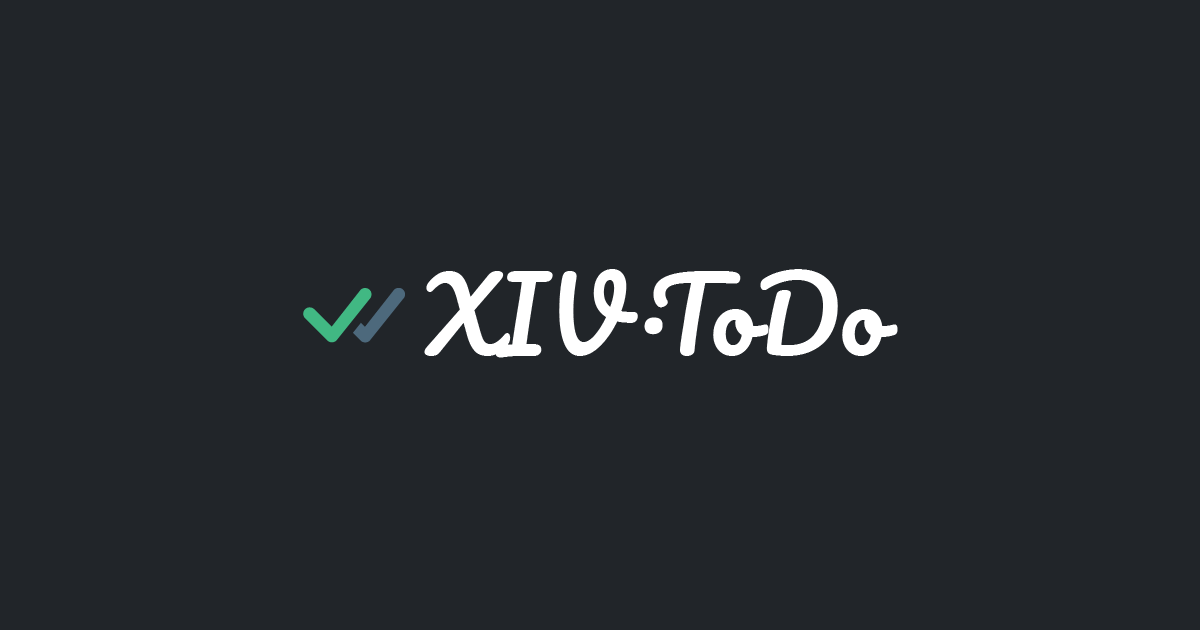
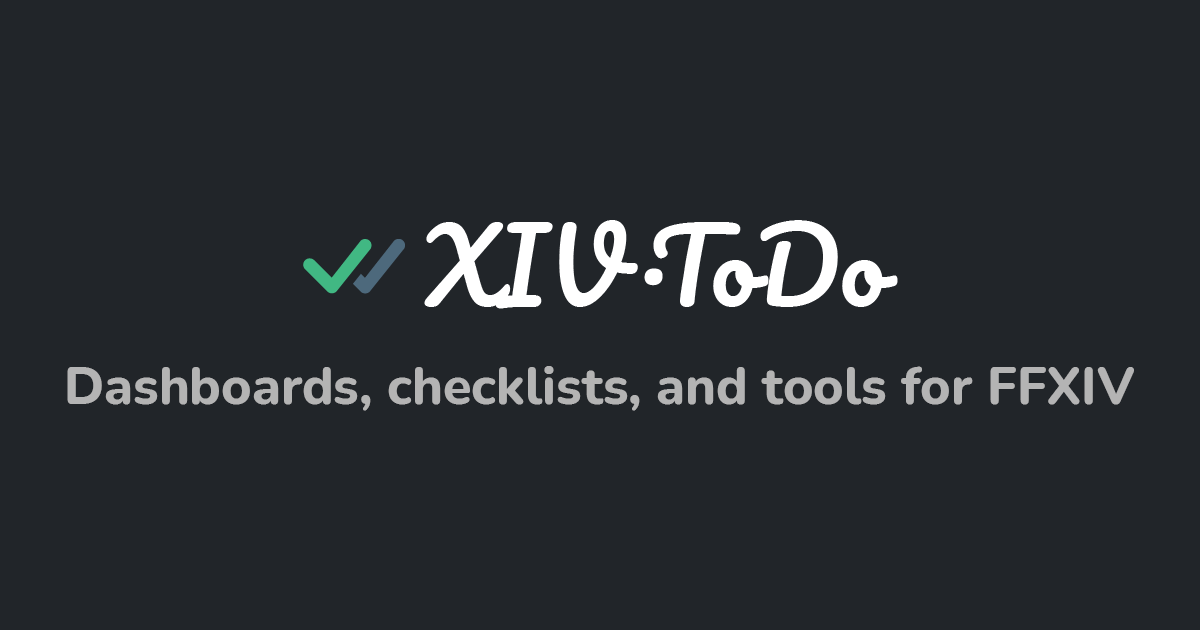
Improve og meta cover

Changed region(s): [[0.0308, 0.3317, 0.9558, 0.6635]]

diff --git a/public/index.html b/public/index.html
@@ -18,14 +18,14 @@
     <meta property="og:type" content="website">
     <meta property="og:title" content="XIV ToDo: Dashboards, checklists, and tools for FFXIV">
     <meta property="og:description" content="Dashboards, completion trackers, tailored weekly and daily checklists and tools for FFXIV (Final Fantasy XIV) for new players and more experienced alike!">
-    <meta property="og:image" content="https://xivtodo.com/og_cover.png">
+    <meta property="og:image" content="https://xivtodo.com/og_cover.png?v2">
 
     <meta name="twitter:card" content="summary_large_image">
     <meta property="twitter:domain" content="xivtodo.com">
     <meta property="twitter:url" content="https://xivtodo.com">
     <meta name="twitter:title" content="XIV ToDo: Dashboards, checklists, and tools for FFXIV">
     <meta name="twitter:description" content="Dashboards, completion trackers, tailored weekly and daily checklists and tools for FFXIV (Final Fantasy XIV) for new players and more experienced alike!">
-    <meta name="twitter:image" content="https://xivtodo.com/og_cover.png">
+    <meta name="twitter:image" content="https://xivtodo.com/og_cover.png?v2">
 
     <link rel="preconnect" href="https://fonts.gstatic.com">
     <link href="https://fonts.googleapis.com/css2?family=Nunito:wght@300;600;800&display=swap" rel="stylesheet"> 

diff --git a/src/views/Home.vue b/src/views/Home.vue
@@ -32,6 +32,7 @@
           </button>
         </router-link>
         <button
+          v-if="!this.$store.getters.character"
           type="button"
           class="btn btn-outline-secondary btn-lg px-4"
           @click="goto('features')"
